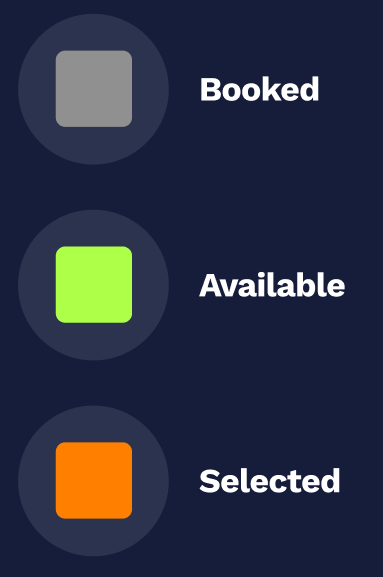
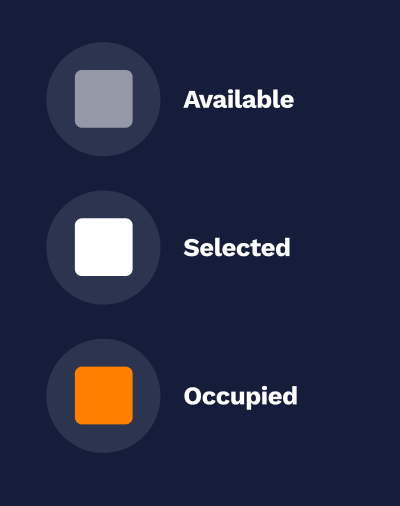
seat issue fixed

diff --git a/src/main/java/application/Controller.java b/src/main/java/application/Controller.java
@@ -196,6 +196,7 @@ public class Controller implements Initializable {
     //<editor-fold desc="SEAT VARIABLES"
     private ArrayList<String> takenSeatE = new ArrayList<>();
     private ArrayList<String> takenSeatB = new ArrayList<>();
+    private double price = 0.0;
     //</editor-fold>
     //<editor-fold desc="HISTORY VARIABLES">
     ObservableList<UserHistory> fetchedList;
@@ -541,20 +542,9 @@ public class Controller implements Initializable {
                 landingBox.setAlignment(Pos.CENTER_LEFT);
                 landingBox.getChildren().addAll(landingIcon,desTime, titleD);
 
-                Button btn = new Button("Book");
-                btn.setStyle("-fx-background-color:  #ff8000; -fx-text-fill: #333; -fx-padding: 10; ");
-
-                btn.setOnAction(e -> {
-                    // the for loop is going to restore the seat opacity
-                    System.out.println("Book clicked");
-                });
-
                 hboxChildCenter.getChildren().addAll(boardingBox, pathIcon, landingBox);
                 hboxChildCenter.setSpacing(15);
                 hboxChildCenter.setAlignment(Pos.CENTER_LEFT);
-
-                hboxChildRight.getChildren().add(btn);
-                hboxChildRight.setAlignment(Pos.CENTER_RIGHT);
 
                 /***************  main box to hold the list  *********************/
                 hbox.setBackground(new Background(new BackgroundFill(Color.valueOf("#151D3B"), CornerRadii.EMPTY, Insets.EMPTY)));
@@ -626,8 +616,7 @@ public class Controller implements Initializable {
                         ex.printStackTrace();
                     }
 
-                    double price = Double.parseDouble(flights.get(finalI1).getPrice());
-                    price_seat_pnl.setText(String.valueOf(price));
+
                     try {
                         pgr_prf_seat_pnl = (ImageView) root.lookup("#pgr_prf_seat_pnl");
                         pgr_prf_seat_pnl.setImage(connection.getProfilePicture(user));
@@ -636,6 +625,8 @@ public class Controller implements Initializable {
                     }
                     flight_nbr_seat_pnl.setText(flights.get(finalI1).getId());
                     // flights seat panel will be shown
+                    price = Double.parseDouble(flights.get(finalI1).getPrice());
+                    price_seat_pnl.setText(String.valueOf(price));
                     pnlSeat.toFront();
                 });
                 // to hover
@@ -654,7 +645,7 @@ public class Controller implements Initializable {
         for (int c = 0; c < grid.getChildren().size(); c++){
             if (seats.contains(grid.getChildren().get(c).getId())) {
                 grid.getChildren().get(c).setDisable(true);
-                grid.getChildren().get(c).setStyle("-fx-background-color: #909090; -fx-background-radius: 5; -fx-opacity: 0.5;");
+                grid.getChildren().get(c).setStyle("-fx-background-color: #FF8000; -fx-background-radius: 5; -fx-opacity: 1;");
                 break;
             }
         }
@@ -824,7 +815,6 @@ public class Controller implements Initializable {
             */
        if(!business) {
            //<editor-fold desc="short">
-
            Label label = createSeatItem();
            label.setId("E" + rowIndex+ columnIndex);
 
@@ -845,18 +835,18 @@ public class Controller implements Initializable {
            //</editor-fold>
            //grid_left.getColumnCount();
            label.setOnMouseClicked(e ->{
+               price_seat_pnl.setText(String.valueOf(price));
+
                seat_nbr_seat_pnl.setText(label.getId());
                toggleSeatColor(); // restore seats
                // seat color change
                for (int i = 0; i < gridE.getChildren().size(); i++){
                    gridE.getChildren().get(i).setOpacity(1);
-                   gridE.getChildren().get(i).setStyle("-fx-background-color: #FF8000; -fx-background-radius: 5;");
                    if (!Objects.equals(gridE.getChildren().get(i).getId(), label.getId())){
                        gridE.getChildren().get(i).setOpacity(0.5);
-                       gridE.getChildren().get(i).setStyle("-fx-background-color: #AEFF47; -fx-background-radius: 5;");
                        for (String taken : takenSeatE){
                            if (taken.equals(gridE.getChildren().get(i).getId())){
-                                gridE.getChildren().get(i).setStyle("-fx-background-color: #909090; -fx-background-radius: 5;");
+                                gridE.getChildren().get(i).setStyle("-fx-background-color: #FF8000; -fx-background-radius: 5;");
                            }
                        }
                    }
@@ -865,8 +855,6 @@ public class Controller implements Initializable {
         }else {
 
            //<editor-fold desc="short">
-
-
            Label label = createSeatItem();
            label.setId("B" + rowIndex+ columnIndex);
            if (gridB.getColumnCount() == 2 && gridB.getRowCount() == 1){
@@ -883,8 +871,8 @@ public class Controller implements Initializable {
            }
            //</editor-fold>
            label.setOnMouseClicked(e ->{
-               System.out.println(e.getSource() + " src");
-               System.out.println("label id: " + label.getId());
+
+               price_seat_pnl.setText(String.valueOf(price * 1.1));
                seat_nbr_seat_pnl.setText(label.getId());
                toggleSeatColor(); // restore seats
 
@@ -892,13 +880,12 @@ public class Controller implements Initializable {
                // seat color change
                for (int i = 0; i < gridB.getChildren().size(); i++){
                    gridB.getChildren().get(i).setOpacity(1);
-                   gridB.getChildren().get(i).setStyle("-fx-background-color: #FF8000; -fx-background-radius: 5;");
                    if (!Objects.equals(gridB.getChildren().get(i).getId(), label.getId())){
                        gridB.getChildren().get(i).setOpacity(0.5);
-                       gridB.getChildren().get(i).setStyle("-fx-background-color: #AEFF47; -fx-background-radius: 5;");
                        for (String taken : takenSeatB){
                            if (taken.equals(gridB.getChildren().get(i).getId())){
-                               gridB.getChildren().get(i).setStyle("-fx-background-color: #909090; -fx-background-radius: 5;");
+                               System.out.println("business taken seats exist");
+                               gridB.getChildren().get(i).setStyle("-fx-background-color: #FF8000; -fx-background-radius: 5;");
                            }
                        }
                    }
@@ -911,12 +898,14 @@ public class Controller implements Initializable {
     private void toggleSeatColor() {
         for (int ge = 0; ge < gridE.getChildren().size(); ge++){ // ge store for grid-economy
             if (!takenSeatE.contains(gridE.getChildren().get(ge).getId())){
-                gridE.getChildren().get(ge).setStyle("-fx-background-color: #AEFF47; -fx-background-radius: 5; -fx-opacity: 1;"); // restore all seats
+                gridE.getChildren().get(ge).setOpacity(1);
+                //gridE.getChildren().get(ge).setStyle("-fx-background-color: #AEFF47; -fx-background-radius: 5; -fx-opacity: 1;"); // restore all seats
             }
         }
         for (int gb = 0; gb < gridB.getChildren().size(); gb++){ // gb stor for grid-business
             if (!takenSeatB.contains(gridB.getChildren().get(gb).getId())){
-                gridB.getChildren().get(gb).setStyle("-fx-background-color: #AEFF47; -fx-background-radius: 5; -fx-opacity: 1;"); // restore all seats
+                gridB.getChildren().get(gb).setOpacity(1);
+                //gridB.getChildren().get(gb).setStyle("-fx-background-color: #AEFF47; -fx-background-radius: 5; -fx-opacity: 1;"); // restore all seats
             }
         }
     }
@@ -926,8 +915,8 @@ public class Controller implements Initializable {
         label.setMinWidth(30);
         label.setMinHeight(30);
         label.setText(label.getId());
-        label.setBackground(new Background(new BackgroundFill(Color.rgb(174, 255, 71), new CornerRadii(5), Insets.EMPTY)));
-        label.setBorder(new Border(new BorderStroke(Color.rgb(174, 255, 71), BorderStrokeStyle.SOLID, new CornerRadii(5), new BorderWidths(0))));
+        label.setBackground(new Background(new BackgroundFill(Color.WHITE, new CornerRadii(5), Insets.EMPTY)));
+        label.setBorder(new Border(new BorderStroke(Color.WHITE, BorderStrokeStyle.SOLID, new CornerRadii(5), new BorderWidths(0))));
         return label;
     }
 

diff --git a/src/main/java/application/model/ConfirmActions.java b/src/main/java/application/model/ConfirmActions.java
@@ -66,10 +66,13 @@ public class ConfirmActions {
 
     }
 
+
+
+    // display error on screen by its tag
     public void displayMessage(Label success_msg, String s) {
         if (success_msg != null){
             success_msg.setText(s);
-            PauseTransition pause = new PauseTransition(Duration.seconds(2));
+            PauseTransition pause = new PauseTransition(Duration.seconds(3));
             pause.setOnFinished(a -> success_msg.setText(null));
             pause.play();
         }else {

diff --git a/src/main/java/application/database/Connection.java b/src/main/java/application/database/Connection.java
@@ -246,7 +246,6 @@ public class Connection {
         Statement stmt = con.createStatement();
         stmt.executeUpdate("SET search_path TO jetstream;");
         ResultSet result = stmt.executeQuery("select picture from profile_picture where u_id = " + user.getUserId() + ";");
-
         while (result.next()) {
             System.out.println(result.getString("picture"));
             image = new Image(result.getString("picture"));
